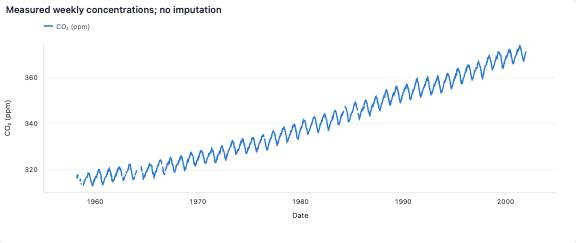
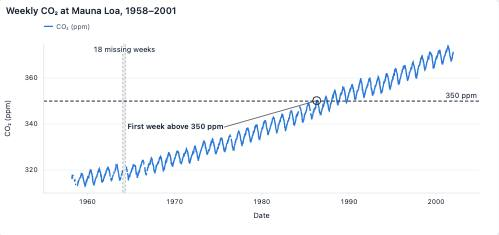
feat(daily): rewrite co2-trend-and-coverage around the decade steps

diff --git a/apps/demo/public/daily-viz/projects/co2/trend-and-coverage.eda.md b/apps/demo/public/daily-viz/projects/co2/trend-and-coverage.eda.md
@@ -1,6 +1,6 @@
-# A CO₂ trend with the missing weeks left visible
+# CO₂ rose 40 ppm in three decades, and each decade's step was bigger
 
-**What does five decades of weekly CO₂ look like when the missing weeks stay missing?** Each row is one weekly date.
+**How fast is carbon dioxide rising at Mauna Loa, and how much of the record is really there?** Each row is one week from March 1958 to December 2001: a concentration where the observatory had a reading, and a blank where it did not. The level climbs every decade, the climb gets steeper, and the blanks turn out to be a 1960s problem.
 
 ```eda
 eda query=r
@@ -8,56 +8,57 @@ date:date=r.date label="Date"
 co2:num=r.co2 label="CO₂ (ppm)"
 decade:cat=r.decade label="Decade"
 coverage:cat=r.coverage label="Coverage"
+observed:num=r.observed label="Weeks measured"
+month_label:cat=r.month_label label="Month"
+year:num=r.year label="Year"
+month:num=r.month label="Month number"
+calc yearfrac = year + (month - 1) / 12
 ```
 
-## 1. Measured weekly concentrations; no imputation
+## A sawtooth that only climbs
 
-Follow the observations in calendar order. Gaps are not zero concentration, and no connecting value has been inserted to repair them.
+Each tooth is one year: the Northern Hemisphere's spring peak and its autumn trough, when plants draw carbon down. Underneath the teeth, the level never comes back. The 1960s averaged 320.22 ppm. The 1990s averaged 360.38 ppm. The first week above 350 ppm came in April 1986, and after October 1989 no week fell below it again.
 
 ```eda
-line @nb-co2-trend-and-coverage-chart-1 x=date y=co2 title="Measured weekly concentrations; no imputation" x.title="Date" y.title="CO₂ (ppm)"
+line @nb-co2-trend-and-coverage-chart-1 x=date y=co2 title="Weekly CO₂ at Mauna Loa, 1958–2001" x.title="Date" y.title="CO₂ (ppm)" {
+  rule y=350 "350 ppm"
+  band x=1964-01-25..1964-05-23 "18 missing weeks"
+  callout "First week above 350 ppm" on=r.id:co2-r-01466 offset=-140,40
+}
 ```
 
-## 2. Measured and missing weekly slots
+## The holes are early, and there are few
 
-The coverage chart uses all dates. It separates a missing measurement from the absence of a row in a newly constructed calendar.
+Each cell is one month, shaded by how many of its weeks have a reading. 97.4% of weekly slots have a measurement. The pale cells sit in 1958, when the record was starting, and in 1964, when the observatory lost four months. The 1960s account for 34 of the 59 missing weeks, and every one of the 1990s' 521 slots has a reading.
 
 ```eda
-row @nb-co2-trend-and-coverage-chart-2 coverage title="Measured and missing weekly slots" x.title="Rows"
+heatmap @nb-co2-trend-and-coverage-chart-2 month_label columnField=date columnInterval=year aggregation=sum measureField=observed maxColumns=44 sortBy=label showValues=false title="Weeks with a reading, by month and year" {
+  colorDomain.min=0 colorDomain.max=5
+}
 ```
 
-**Finding.** The mean measured concentration in the 1960s was 320.22 ppm.
+## Each decade's step is larger than the last
 
-## 3. The weekly distribution in each decade
-
-Decades make the long-run shift easier to compare, but the first and final decades are partial. Each box uses observed weeks only.
+The boxes march upward with no decade overlapping the one two before it. The 1970s averaged 330.85 ppm and the 1980s 345.28 ppm, so the decade steps run 10.6, 14.4, and 15.1 ppm. The 1990s' lowest week, 350.7 ppm, sits above the 1970s' highest, 339.9 ppm.
 
 ```eda
-boxplot @nb-co2-trend-and-coverage-chart-3 co2 color=decade title="The weekly distribution in each decade" y.title="CO₂ (ppm)"
+boxplot @nb-co2-trend-and-coverage-chart-3 co2 color=decade title="Weekly CO₂ by decade" y.title="CO₂ (ppm)" {
+  rule y=350 "350 ppm"
+}
 ```
 
-## 4. Compare the whole distribution, not just a center
+## A straight line misses both ends
 
-Cumulative distributions retain the tails and overlap. They are descriptive summaries of measured weeks, not estimates weighted by the length of missing intervals.
-
-```eda
-ecdf @nb-co2-trend-and-coverage-chart-4 co2 color=decade direction=below title="Compare the whole distribution, not just a center" x.title="CO₂ (ppm)"
-```
-
-**Finding.** The mean measured concentration in the 1990s was 360.38 ppm.
-
-## 5. The rows behind the charts
-
-Sort a column or select rows to check any value above. Selections in a notebook stay with their own chart.
+Fit one line through every week and the record bends away from it: the 1960s and the 2000s sit above the fit, the 1970s below. The slope is not constant; it is rising. The highest weekly reading, 373.9 ppm, came in May 2001, and the lowest, 313.0 ppm, in November 1958.
 
 ```eda
-table @nb-co2-trend-and-coverage-records date,co2,coverage,decade title="Records behind this comparison"
+scatter @nb-co2-trend-and-coverage-chart-4 x=yearfrac y=co2 regression=linear opacity=0.3 title="Every measured week against a straight-line fit" x.title="Year" y.title="CO₂ (ppm)"
 ```
 
 ## Takeaway
 
-A time series, a coverage count, and distributions by decade answer complementary questions. The rising sequence must be read alongside seasonal movement and the limits of the historical measurement calendar.
+Mauna Loa CO₂ rose about 40 ppm between the 1960s and the 1990s, and the rise accelerated with every decade. The missing weeks are real but concentrated before 1970; the three decades that carry the trend are almost complete.
 
 ## Limits
 
-This is the historical flask-data revision distributed with statsmodels, not the latest NOAA series. Missing weeks stay null. Weekly observations at one station are not global spatial measurements.
+This is the historical flask series distributed with statsmodels, not NOAA's current in-situ record, and it stops in 2001. One station on a Hawaiian volcano stands in for the global background. The missing weeks are left blank, so decade averages weight the measured weeks only.
